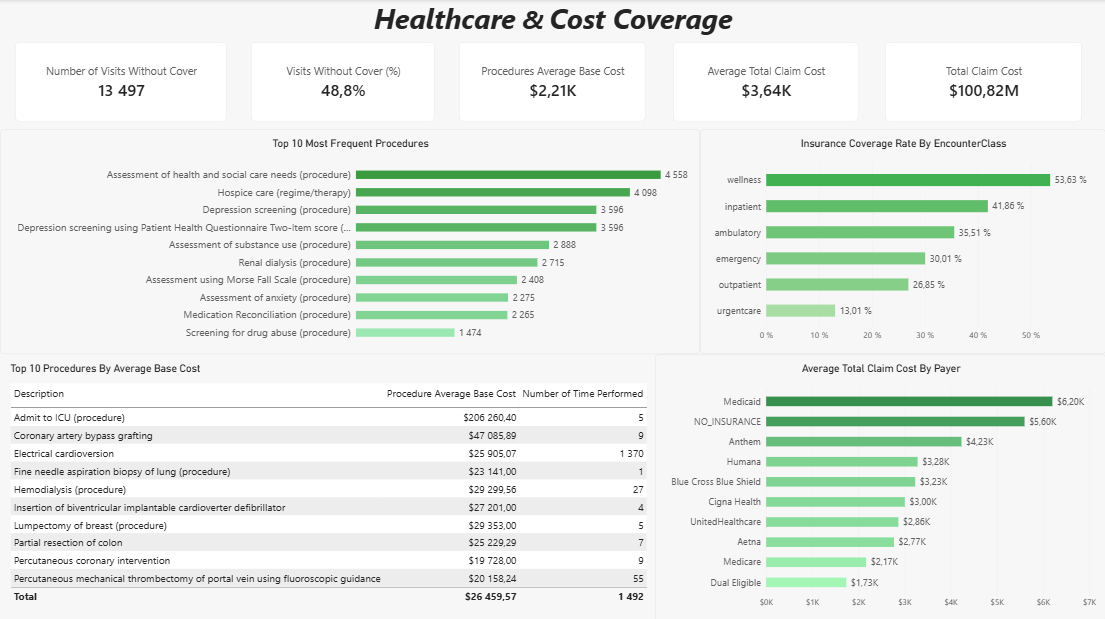
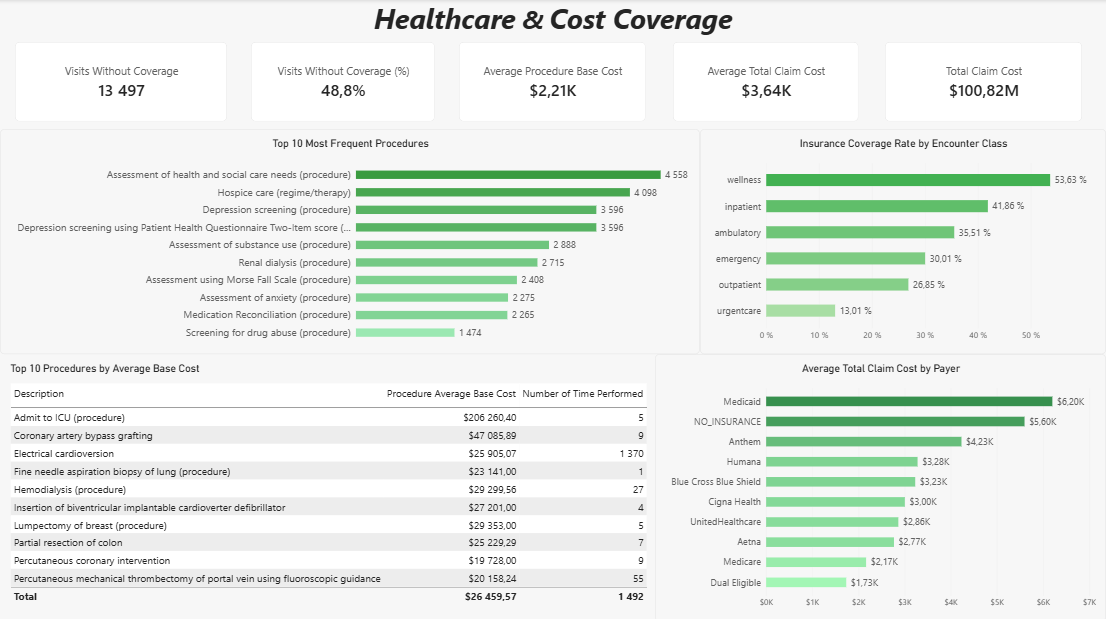
Clarify hospital metrics and refresh report previews

diff --git a/Projet_Hospital/README.md b/Projet_Hospital/README.md
@@ -24,7 +24,7 @@ Sur la première page, on peut suivre les visites année par année, comparer le
 
 Entre 2011 et 2021, les données comptent **27 671 visites pour 974 patients**. Le pic se situe en **2014, avec 3 885 visites**. Après plusieurs années moins chargées, l’activité remonte à **3 530 visites en 2021**. Les visites ambulatoires sont les plus fréquentes : elles représentent **près de 45 %** des visites. Presque toutes les visites durent 24 heures ou moins.
 
-J’ai également regardé les retours à l’hôpital. **29 patients** ont eu un nouveau séjour hospitalier (`inpatient`) dans les **30 jours suivant la fin d’un séjour précédent du même type**. Le classement des patients par nombre de séjours répétés compte, lui, tous les séjours hospitaliers supplémentaires sur la période, **sans limite de 30 jours**.
+J’ai également regardé les retours à l’hôpital. Parmi les **153 patients** ayant eu au moins un séjour hospitalier (`inpatient`), **29** ont eu un nouveau séjour dans les **30 jours suivant la fin d’un séjour précédent du même type**, soit **19 %**. Le classement des patients par nombre de séjours répétés compte, lui, tous les séjours hospitaliers supplémentaires sur la période, **sans limite de 30 jours**.
 
 Sur la deuxième page, je compare les procédures les plus courantes, celles dont le coût de base moyen est le plus élevé et le coût moyen des visites selon l’assureur. Une visite dite **« sans couverture »** a une valeur `Payer_Coverage` égale à zéro : cela ne veut pas forcément dire que le patient n’a pas d’assurance. Le taux de couverture affiché par type de visite correspond au **montant total payé par les assureurs divisé par le coût total des visites**. Les montants sont en dollars américains.
 
